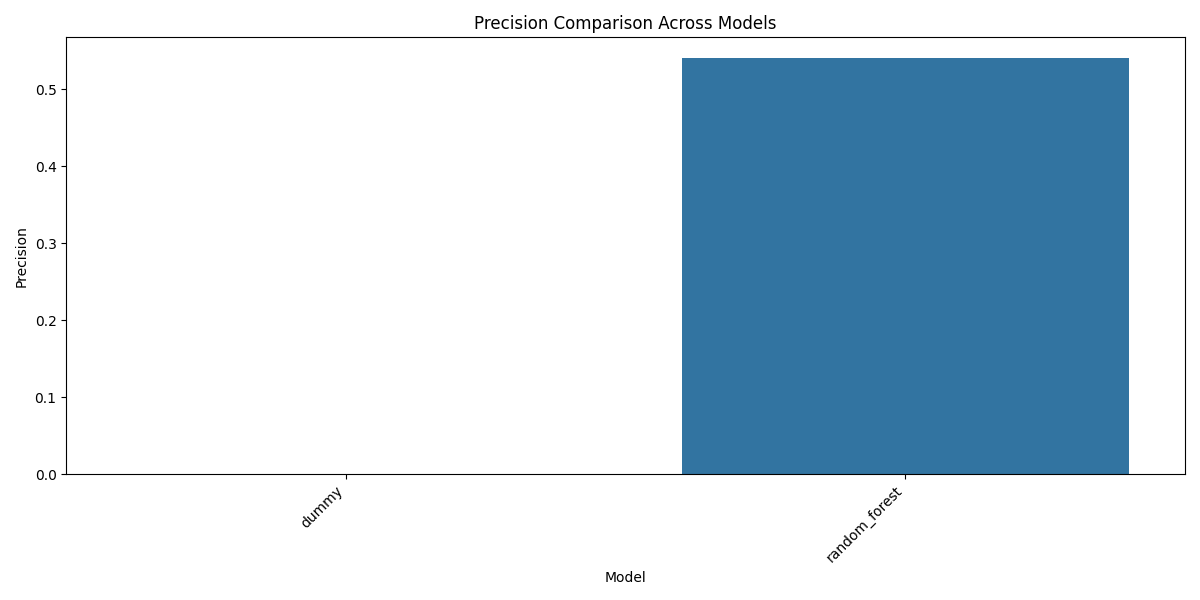
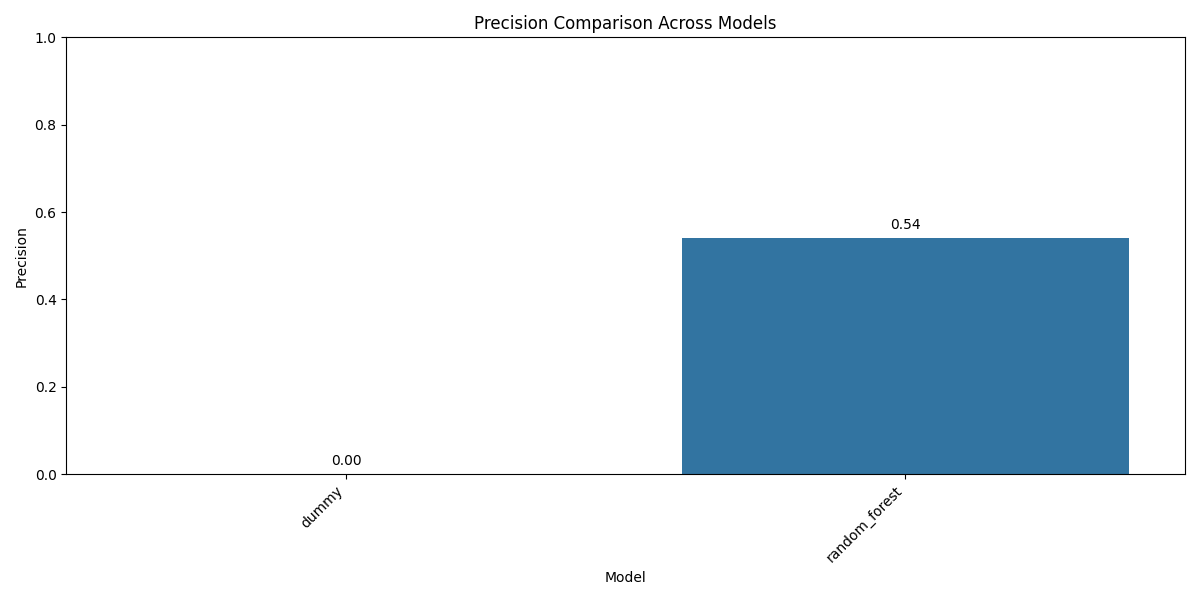
Bugs Fixed in Visualization

diff --git a/model_utils.py b/model_utils.py
@@ -451,7 +451,7 @@ def compare_models(models_dict, X_test=None, y_test=None, output_dir='outputs/ge
                     'Accuracy': accuracy,
                     'Precision': precision,
                     'Recall': recall,
-                    'F1': f1,
+                    'F1 Score': f1,
                     'ROC AUC': roc_auc
                 })
         
@@ -475,7 +475,7 @@ def compare_models(models_dict, X_test=None, y_test=None, output_dir='outputs/ge
                     'Accuracy': metrics.get('accuracy', 0),
                     'Precision': metrics.get('precision', 0),
                     'Recall': metrics.get('recall', 0),
-                    'F1': metrics.get('f1_score', 0),
+                    'F1 Score': metrics.get('f1', 0),  # Changed from f1_score to f1
                     'ROC AUC': metrics.get('roc_auc', 0)
                 })
             else:
@@ -524,15 +524,30 @@ def compare_models(models_dict, X_test=None, y_test=None, output_dir='outputs/ge
         plt.close()
         
         # Create bar chart comparison for numeric columns
-        metrics = ['Accuracy', 'Precision', 'Recall', 'F1', 'ROC AUC']
+        metrics = ['Accuracy', 'Precision', 'Recall', 'F1 Score', 'ROC AUC']
+        
+        # Debugging to print column names
+        logging.info(f"Available columns in results_df: {list(results_df.columns)}")
+        
         for metric in metrics:
             if metric in results_df.columns:
+                logging.info(f"Creating chart for {metric}...")
                 plt.figure(figsize=(12, 6))
-                sns.barplot(x='Model', y=metric, data=results_df)
+                ax = sns.barplot(x='Model', y=metric, data=results_df)
+                
+                # Add value labels above each bar
+                for i, v in enumerate(results_df[metric]):
+                    ax.text(i, v + 0.02, f"{v:.2f}", ha='center')
+                
                 plt.title(f'{metric} Comparison Across Models')
                 plt.xticks(rotation=45, ha='right')
+                plt.ylim(0, 1.0)  # Set fixed y-axis limit to ensure bars are visible
                 plt.tight_layout()
-                plt.savefig(f'{output_dir}/{metric.lower().replace(" ", "_")}_comparison.png')
+                
+                # Generate file name and save
+                file_name = f'{output_dir}/{metric.lower().replace(" ", "_")}_comparison.png'
+                plt.savefig(file_name)
+                logging.info(f"Saved comparison chart to {file_name}")
                 plt.close()
     
     logging.info("Model comparison complete.")
